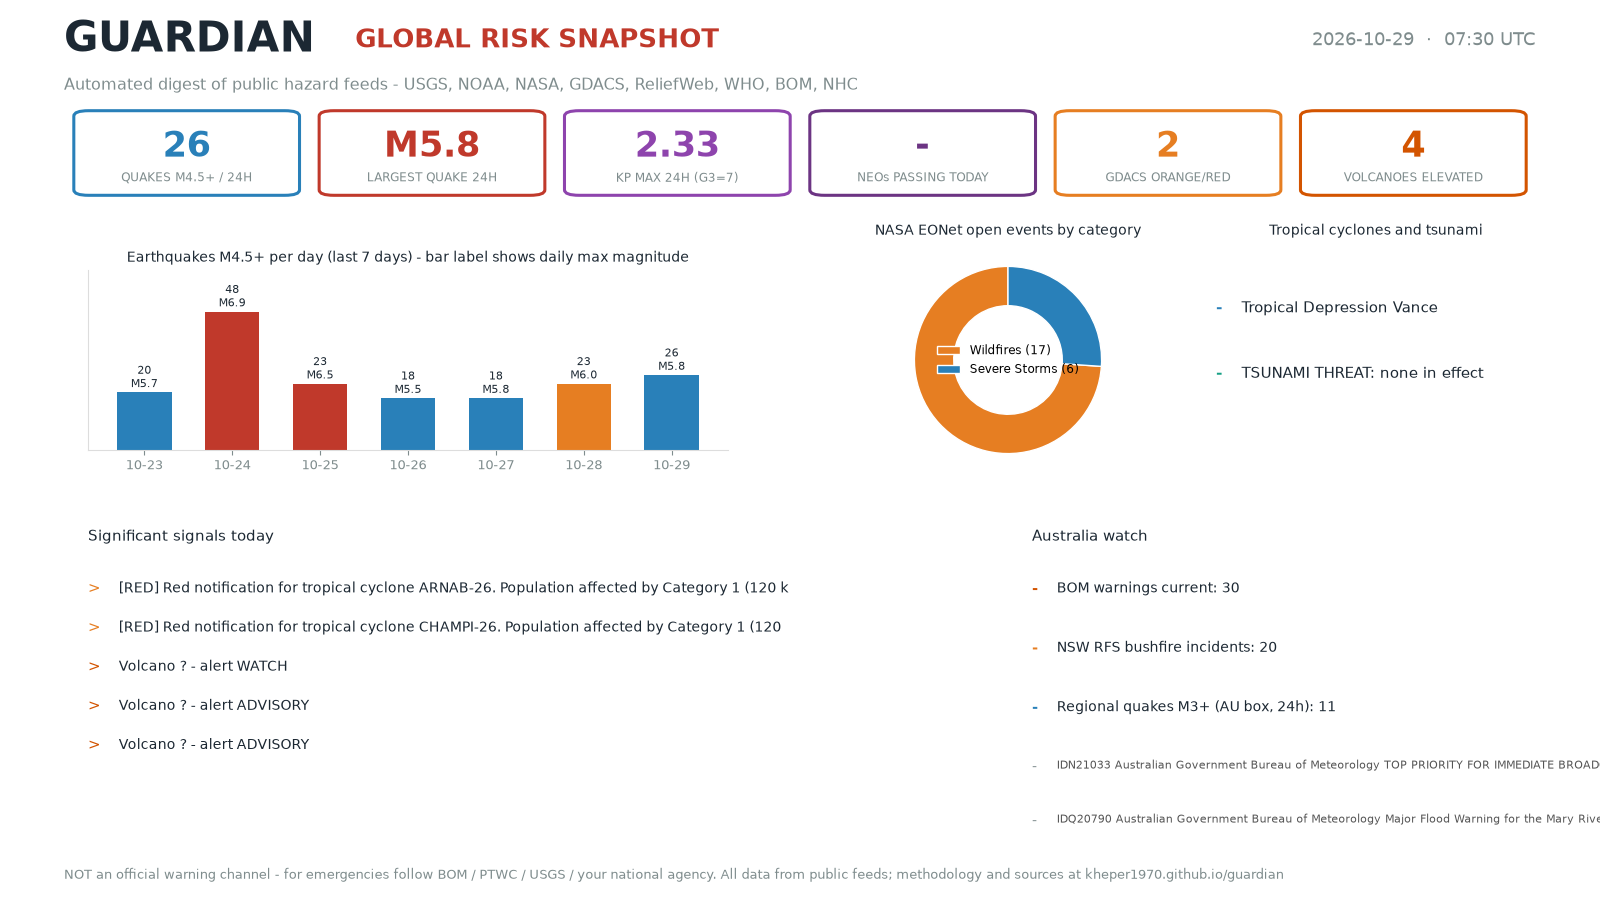
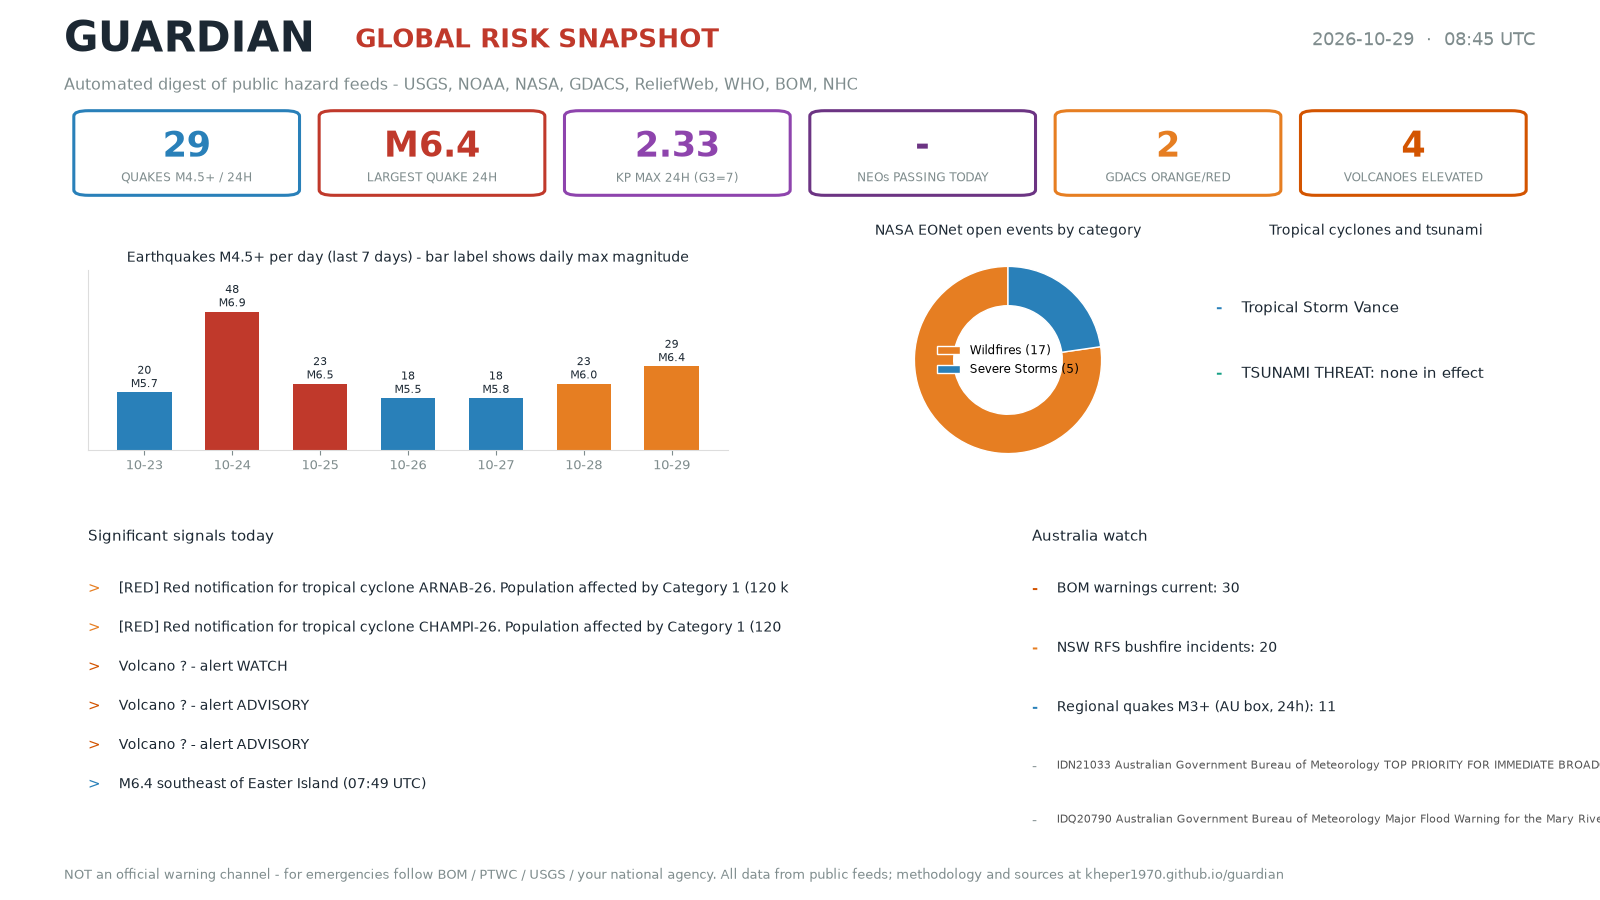
Automated update 2026-10-29T08:50Z

diff --git a/briefing/briefing_2026-10-29.html b/briefing/briefing_2026-10-29.html
@@ -80,16 +80,16 @@ or your national emergency agency.</p>
 <h1>Guardian daily briefing — 2026-10-29</h1>
 <p>Generated automatically from public feeds (USGS, NOAA, NASA, WHO, GDACS, ReliefWeb, EONet, Google News). All times UTC.</p>
 <h2>Earthquakes (M4.5+, last 24h)</h2>
-<p>Count: 26
+<p>Count: 29
+- M6.4 southeast of Easter Island (2026-10-29 07:49 UTC)
 - M5.8 110 km ENE of Barcelona, Philippines (2026-10-29 03:19 UTC)
 - M5.7 82 km NE of Kiunga, Papua New Guinea (2026-10-29 03:26 UTC)
 - M5.7 271 km WSW of Tual, Indonesia (2026-10-28 22:06 UTC)
-- M5.6 South Sandwich Islands region (2026-10-29 05:06 UTC)
 - M5.5 5 km ESE of Asahi, Japan (2026-10-28 15:07 UTC)
 - M5.5 Reykjanes Ridge (2026-10-28 11:37 UTC)
-- M5.4 113 km ENE of Barcelona, Philippines (2026-10-29 03:17 UTC)
-- M5.4 109 km ENE of Luganville, Vanuatu (2026-10-29 00:08 UTC)
-- ...and 18 more</p>
+- M5.4 114 km ENE of Barcelona, Philippines (2026-10-29 07:31 UTC)
+- M5.4 South Sandwich Islands region (2026-10-29 05:06 UTC)
+- ...and 21 more</p>
 <h2>Space weather</h2>
 <ul>
 <li>Kp now: 2.33; max last 24h: 2.33 (storm threshold G3 = Kp 7.0)</li>
@@ -118,7 +118,7 @@ or your national emergency agency.</p>
 </ul>
 <h2>NASA EONet open events (wildfires, storms, volcanoes)</h2>
 <ul>
-<li>Open events total: 32; tracked categories: 23</li>
+<li>Open events total: 29; tracked categories: 22</li>
 <li>[Severe Storms] Tropical Cyclone Arnab (last update 2026-10-28)</li>
 <li>[Severe Storms] Tropical Storm Olana (last update 2026-10-27)</li>
 <li>[Wildfires] Wildfire Range  47B, Forrest, Mississippi (last update 2026-10-24)</li>
@@ -126,11 +126,11 @@ or your national emergency agency.</p>
 <li>[Wildfires] Wildfire BEE HAVEN (2) (24-06), Hamilton, Florida (last update 2026-10-22)</li>
 <li>[Severe Storms] Hurricane Vance (last update 2026-10-29)</li>
 <li>[Wildfires] Prescribed Fire Frog Tank 2 Piles RX, Coconino, Arizona (last update 2026-10-21)</li>
-<li>[Severe Storms] Tropical Cyclone Agueda (last update 2026-10-23)</li>
 <li>[Wildfires] Prescribed Fire STE - Goodin Ridge RX, McCreary, Kentucky (last update 2026-10-18)</li>
 <li>[Wildfires] Wildfire Bras, Sanders, Montana (last update 2026-10-17)</li>
 <li>[Wildfires] Wildfire COOLEY, Mendocino, California (last update 2026-10-16)</li>
 <li>[Wildfires] Wildfire NORTE, Orange, California (last update 2026-10-16)</li>
+<li>[Wildfires] Prescribed Fire Rx Polk 9275, Polk, Texas (last update 2026-10-16)</li>
 </ul>
 <h2>Tropical cyclones (NHC Atlantic + E/C Pacific)</h2>
 <ul>
@@ -143,11 +143,11 @@ or your national emergency agency.</p>
 <h2>Nuclear &amp; radiological watch (Google News: IAEA/incident keywords)</h2>
 <ul>
 <li>IAEA Convenes National Nuclear Emergency Competent Authorities as Early Notification and Assistance Conventions Mark 40 Years - International Atomic Energy Agency (Mon, 08 Jun 2026)</li>
-<li>IAEA Helps Latin American and the Caribbean Countries Prepare for Nuclear and Radiological Emergencies Coinciding with Other Crises - International Atomic Energy Agency (Wed, 08 Jul 2026)</li>
 <li>IAEA Response and Assistance Network (RANET) Capacity Building Centre’s Workshop on Monitoring during a Nuclear or Radiological Emergency held in Fukushima - Ministry of Foreign Affairs of Japan (Fri, 09 Oct 2026)</li>
-<li>IAEA and Japan Strengthen Emergency Preparedness in Fukushima - International Atomic Energy Agency (Wed, 15 Apr 2026)</li>
-<li>Building a Safer World: 20 Years of the Incident and Emergency Centre | IAEA - International Atomic Energy Agency (Mon, 29 Dec 2025)</li>
-<li>Protecting Food and Agriculture in Nuclear and Radiological Emergencies | IAEA - International Atomic Energy Agency (Tue, 09 Dec 2025)</li>
+<li>UN nuclear agency chief ‘deeply concerned’ by reports of latest attack on Iran power plant - UN News (Sat, 04 Apr 2026)</li>
+<li>Plan alignment and operational interfaces in nuclear security event response: evidence from Türkiye’s all-hazards emergency management system - Frontiers (Fri, 10 Jul 2026)</li>
+<li>Türkiye’s emergency plans excel at nuclear accidents but stumble on security events - Bioengineer.org (Fri, 16 Oct 2026)</li>
+<li>IAEA Helps Latin American and the Caribbean Countries Prepare for Nuclear and Radiological Emergencies Coinciding with Other Crises - International Atomic Energy Agency (Wed, 08 Jul 2026)</li>
 </ul>
 <h2>Food security watch (Google News: famine keywords)</h2>
 <ul>
@@ -160,11 +160,11 @@ or your national emergency agency.</p>
 </ul>
 <h2>Australia watch (ABC News, NSW RFS, USGS AU quakes, GNews AU, health.gov.au)</h2>
 <ul>
-<li>CEO of one of Australia's top cultural events becomes French knight (Thu, 29 Oct 2026)</li>
-<li>Driver jailed over high-speed crash that killed teenager (Thu, 29 Oct 2026)</li>
-<li>North Korean workers sold into Russia then stripped of wages, report finds (Thu, 29 Oct 2026)</li>
-<li>WA man jailed for raping six-year-old niece (Thu, 29 Oct 2026)</li>
-<li>Albanese is bogged down in grant problem of his own making (Thu, 29 Oct 2026)</li>
+<li>Businesses hoping for 'salvation' from Sydney's new metro line (Thu, 29 Oct 2026)</li>
+<li>Child care sector faces further changes after shocking abuse exposed (Thu, 29 Oct 2026)</li>
+<li>Alcoa ordered to stay further away from Perth's drinking water supply (Thu, 29 Oct 2026)</li>
+<li>Police search launched for man swept away in Central Australia flooding (Thu, 29 Oct 2026)</li>
+<li>One Nation MP rejects $200,000 staffer as Hanson accuses PM of meddling (Thu, 29 Oct 2026)</li>
 <li>NSW RFS current incidents: 20 (0 at Warning level)</li>
 <li>AU-region quakes (24h): 11, max M4.8</li>
 <li>M3.5 9 km NE of Korumburra, Australia</li>
@@ -175,11 +175,11 @@ or your national emergency agency.</p>
 <li>Flood-ravaged Queensland hit with heatwave warning - News24 (Thu, 29 Oct 2026)</li>
 <li>Bushfire smoke chokes output from solar farms, even more than 100 km away, researchers find - Renew Economy (Wed, 28 Oct 2026)</li>
 <li>One attack every six minutes prompts new cybersecurity alert - The Nightly (Wed, 28 Oct 2026)</li>
-<li>AI Emergency Alerts Are Coming. Humans Might Not Be Ready - WIRED (Wed, 28 Oct 2026)</li>
-<li>From overseas student to Air Force leader - Defence News (Thu, 29 Oct 2026)</li>
+<li>Kalamunda residents ordered to evacuate as firefighters battle suspicious, out-of-control bushfire - The West Australian (Thu, 29 Oct 2026)</li>
+<li>‘Case closed’: ADF chief rules out action on SAS command failures - The Australian (Thu, 29 Oct 2026)</li>
+<li>Missile defence: Australia’s military’s $10 billion plan to protect itself but leave the rest of us exposed - Strategic Analysis Australia (Thu, 29 Oct 2026)</li>
 <li>Inquiry slams culture and command of Australia's SAS during Afghanistan war - ABC News &amp; Headlines – Australian Broadcasting Corporation (Wed, 28 Oct 2026)</li>
-<li>Australia considering Iron Dome-style interceptor purchase for air defence shield - SBS (Thu, 29 Oct 2026)</li>
-<li>National security strategy must be broadened - The Australian (Wed, 28 Oct 2026)</li>
+<li>From overseas student to Air Force leader - Defence News (Thu, 29 Oct 2026)</li>
 <li>health.gov.au:</li>
 <li>Hearing Services Program provider notice 2026-12 – Provider Webinar Link</li>
 <li>Seeking people with an interest in research and a passion for improving health outcomes</li>
@@ -210,7 +210,8 @@ or your national emergency agency.</p>
 <li>Sat, 15 Aug 2026 00:00:00 +0000: Indonesia: Earthquake - Aug 2026</li>
 </ul>
 <h2>Alerts</h2>
-<p><strong>VOLCANO ORANGE: Great Sitkin (avo)</strong></p>
+<p><strong>VOLCANO ORANGE: Great Sitkin (avo)</strong>
+<strong>AU EMERGENCY KEYWORD HIT: Kalamunda residents ordered to evacuate as firefighters battle suspicious, out-of-control bushfire - The West Australian</strong></p>
 </div></main>
 <footer><div class="wrap">
 Generated automatically by the Guardian pipeline (<a href="https://github.com/kheper1970/guardian">open source on GitHub</a>).

diff --git a/index.html b/index.html
@@ -85,8 +85,8 @@ or your national emergency agency.</p>
 refreshes with every publish.</p>
 </div>
 <div class="card"><h2 style="margin-top:0">Latest snapshot statistics</h2>
-<div class="statgrid"><div class="stat"><div class="n">26</div><div class="l">quakes M4.5+ / 24h</div></div><div class="stat"><div class="n">M5.8</div><div class="l">largest quake</div></div><div class="stat"><div class="n">2.33</div><div class="l">Kp max 24h</div></div><div class="stat"><div class="n">None</div><div class="l">NEOs today</div></div><div class="stat"><div class="n">2</div><div class="l">GDACS orange/red</div></div><div class="stat"><div class="n">4</div><div class="l">volcanoes elevated</div></div></div>
-<p style="color:#666666;font-size:.9rem">Snapshot taken 2026-10-29T07:30:01.627882+00:00 UTC.
+<div class="statgrid"><div class="stat"><div class="n">29</div><div class="l">quakes M4.5+ / 24h</div></div><div class="stat"><div class="n">M6.4</div><div class="l">largest quake</div></div><div class="stat"><div class="n">2.33</div><div class="l">Kp max 24h</div></div><div class="stat"><div class="n">None</div><div class="l">NEOs today</div></div><div class="stat"><div class="n">2</div><div class="l">GDACS orange/red</div></div><div class="stat"><div class="n">4</div><div class="l">volcanoes elevated</div></div></div>
+<p style="color:#666666;font-size:.9rem">Snapshot taken 2026-10-29T08:45:01.644032+00:00 UTC.
 Open the <a href="briefing/briefing_2026-10-29.html">full briefing</a> for details and sources.</p>
 </div>
 <div class="card"><h2 style="margin-top:0">Daily infographic</h2>

diff --git a/briefing/briefing_2026-10-29.md b/briefing/briefing_2026-10-29.md
@@ -3,16 +3,16 @@
 Generated automatically from public feeds (USGS, NOAA, NASA, WHO, GDACS, ReliefWeb, EONet, Google News). All times UTC.
 
 ## Earthquakes (M4.5+, last 24h)
-Count: 26
+Count: 29
+- M6.4 southeast of Easter Island (2026-10-29 07:49 UTC)
 - M5.8 110 km ENE of Barcelona, Philippines (2026-10-29 03:19 UTC)
 - M5.7 82 km NE of Kiunga, Papua New Guinea (2026-10-29 03:26 UTC)
 - M5.7 271 km WSW of Tual, Indonesia (2026-10-28 22:06 UTC)
-- M5.6 South Sandwich Islands region (2026-10-29 05:06 UTC)
 - M5.5 5 km ESE of Asahi, Japan (2026-10-28 15:07 UTC)
 - M5.5 Reykjanes Ridge (2026-10-28 11:37 UTC)
-- M5.4 113 km ENE of Barcelona, Philippines (2026-10-29 03:17 UTC)
-- M5.4 109 km ENE of Luganville, Vanuatu (2026-10-29 00:08 UTC)
-- ...and 18 more
+- M5.4 114 km ENE of Barcelona, Philippines (2026-10-29 07:31 UTC)
+- M5.4 South Sandwich Islands region (2026-10-29 05:06 UTC)
+- ...and 21 more
 
 ## Space weather
 - Kp now: 2.33; max last 24h: 2.33 (storm threshold G3 = Kp 7.0)
@@ -39,7 +39,7 @@ Count: None
 - Ahyi Seamount [YELLOW/ADVISORY] (nmi)
 
 ## NASA EONet open events (wildfires, storms, volcanoes)
-- Open events total: 32; tracked categories: 23
+- Open events total: 29; tracked categories: 22
 - [Severe Storms] Tropical Cyclone Arnab (last update 2026-10-28)
 - [Severe Storms] Tropical Storm Olana (last update 2026-10-27)
 - [Wildfires] Wildfire Range  47B, Forrest, Mississippi (last update 2026-10-24)
@@ -47,11 +47,11 @@ Count: None
 - [Wildfires] Wildfire BEE HAVEN (2) (24-06), Hamilton, Florida (last update 2026-10-22)
 - [Severe Storms] Hurricane Vance (last update 2026-10-29)
 - [Wildfires] Prescribed Fire Frog Tank 2 Piles RX, Coconino, Arizona (last update 2026-10-21)
-- [Severe Storms] Tropical Cyclone Agueda (last update 2026-10-23)
 - [Wildfires] Prescribed Fire STE - Goodin Ridge RX, McCreary, Kentucky (last update 2026-10-18)
 - [Wildfires] Wildfire Bras, Sanders, Montana (last update 2026-10-17)
 - [Wildfires] Wildfire COOLEY, Mendocino, California (last update 2026-10-16)
 - [Wildfires] Wildfire NORTE, Orange, California (last update 2026-10-16)
+- [Wildfires] Prescribed Fire Rx Polk 9275, Polk, Texas (last update 2026-10-16)
 
 ## Tropical cyclones (NHC Atlantic + E/C Pacific)
 - **Tropical Depression Vance** (east_pacific): latest: Tropical Depression Vance Public Advisory Number 31 (Thu, 29 Oct 2026)
@@ -62,11 +62,11 @@ Count: None
 
 ## Nuclear & radiological watch (Google News: IAEA/incident keywords)
 - IAEA Convenes National Nuclear Emergency Competent Authorities as Early Notification and Assistance Conventions Mark 40 Years - International Atomic Energy Agency (Mon, 08 Jun 2026)
-- IAEA Helps Latin American and the Caribbean Countries Prepare for Nuclear and Radiological Emergencies Coinciding with Other Crises - International Atomic Energy Agency (Wed, 08 Jul 2026)
 - IAEA Response and Assistance Network (RANET) Capacity Building Centre’s Workshop on Monitoring during a Nuclear or Radiological Emergency held in Fukushima - Ministry of Foreign Affairs of Japan (Fri, 09 Oct 2026)
-- IAEA and Japan Strengthen Emergency Preparedness in Fukushima - International Atomic Energy Agency (Wed, 15 Apr 2026)
-- Building a Safer World: 20 Years of the Incident and Emergency Centre | IAEA - International Atomic Energy Agency (Mon, 29 Dec 2025)
-- Protecting Food and Agriculture in Nuclear and Radiological Emergencies | IAEA - International Atomic Energy Agency (Tue, 09 Dec 2025)
+- UN nuclear agency chief ‘deeply concerned’ by reports of latest attack on Iran power plant - UN News (Sat, 04 Apr 2026)
+- Plan alignment and operational interfaces in nuclear security event response: evidence from Türkiye’s all-hazards emergency management system - Frontiers (Fri, 10 Jul 2026)
+- Türkiye’s emergency plans excel at nuclear accidents but stumble on security events - Bioengineer.org (Fri, 16 Oct 2026)
+- IAEA Helps Latin American and the Caribbean Countries Prepare for Nuclear and Radiological Emergencies Coinciding with Other Crises - International Atomic Energy Agency (Wed, 08 Jul 2026)
 
 ## Food security watch (Google News: famine keywords)
 - Heat, Food Insecurity, Disease Make Climate a Global Health Emergency: Lancet Countdown - The Energy Mix (Wed, 28 Oct 2026)
@@ -77,11 +77,11 @@ Count: None
 - Africa hunger: Report reveals up to 165M people could need food aid by April 2027 - People Daily (Tue, 27 Oct 2026)
 
 ## Australia watch (ABC News, NSW RFS, USGS AU quakes, GNews AU, health.gov.au)
-- CEO of one of Australia's top cultural events becomes French knight (Thu, 29 Oct 2026)
-- Driver jailed over high-speed crash that killed teenager (Thu, 29 Oct 2026)
-- North Korean workers sold into Russia then stripped of wages, report finds (Thu, 29 Oct 2026)
-- WA man jailed for raping six-year-old niece (Thu, 29 Oct 2026)
-- Albanese is bogged down in grant problem of his own making (Thu, 29 Oct 2026)
+- Businesses hoping for 'salvation' from Sydney's new metro line (Thu, 29 Oct 2026)
+- Child care sector faces further changes after shocking abuse exposed (Thu, 29 Oct 2026)
+- Alcoa ordered to stay further away from Perth's drinking water supply (Thu, 29 Oct 2026)
+- Police search launched for man swept away in Central Australia flooding (Thu, 29 Oct 2026)
+- One Nation MP rejects $200,000 staffer as Hanson accuses PM of meddling (Thu, 29 Oct 2026)
 - NSW RFS current incidents: 20 (0 at Warning level)
 - AU-region quakes (24h): 11, max M4.8
   - M3.5 9 km NE of Korumburra, Australia
@@ -92,11 +92,11 @@ Count: None
   - Flood-ravaged Queensland hit with heatwave warning - News24 (Thu, 29 Oct 2026)
   - Bushfire smoke chokes output from solar farms, even more than 100 km away, researchers find - Renew Economy (Wed, 28 Oct 2026)
   - One attack every six minutes prompts new cybersecurity alert - The Nightly (Wed, 28 Oct 2026)
-  - AI Emergency Alerts Are Coming. Humans Might Not Be Ready - WIRED (Wed, 28 Oct 2026)
-  - From overseas student to Air Force leader - Defence News (Thu, 29 Oct 2026)
+  - Kalamunda residents ordered to evacuate as firefighters battle suspicious, out-of-control bushfire - The West Australian (Thu, 29 Oct 2026)
+  - ‘Case closed’: ADF chief rules out action on SAS command failures - The Australian (Thu, 29 Oct 2026)
+  - Missile defence: Australia’s military’s $10 billion plan to protect itself but leave the rest of us exposed - Strategic Analysis Australia (Thu, 29 Oct 2026)
   - Inquiry slams culture and command of Australia's SAS during Afghanistan war - ABC News &amp; Headlines – Australian Broadcasting Corporation (Wed, 28 Oct 2026)
-  - Australia considering Iron Dome-style interceptor purchase for air defence shield - SBS (Thu, 29 Oct 2026)
-  - National security strategy must be broadened - The Australian (Wed, 28 Oct 2026)
+  - From overseas student to Air Force leader - Defence News (Thu, 29 Oct 2026)
 - health.gov.au:
   - Hearing Services Program provider notice 2026-12 – Provider Webinar Link
   - Seeking people with an interest in research and a passion for improving health outcomes
@@ -126,3 +126,4 @@ Count: None
 
 ## Alerts
 **VOLCANO ORANGE: Great Sitkin (avo)**
+**AU EMERGENCY KEYWORD HIT: Kalamunda residents ordered to evacuate as firefighters battle suspicious, out-of-control bushfire - The West Australian**
